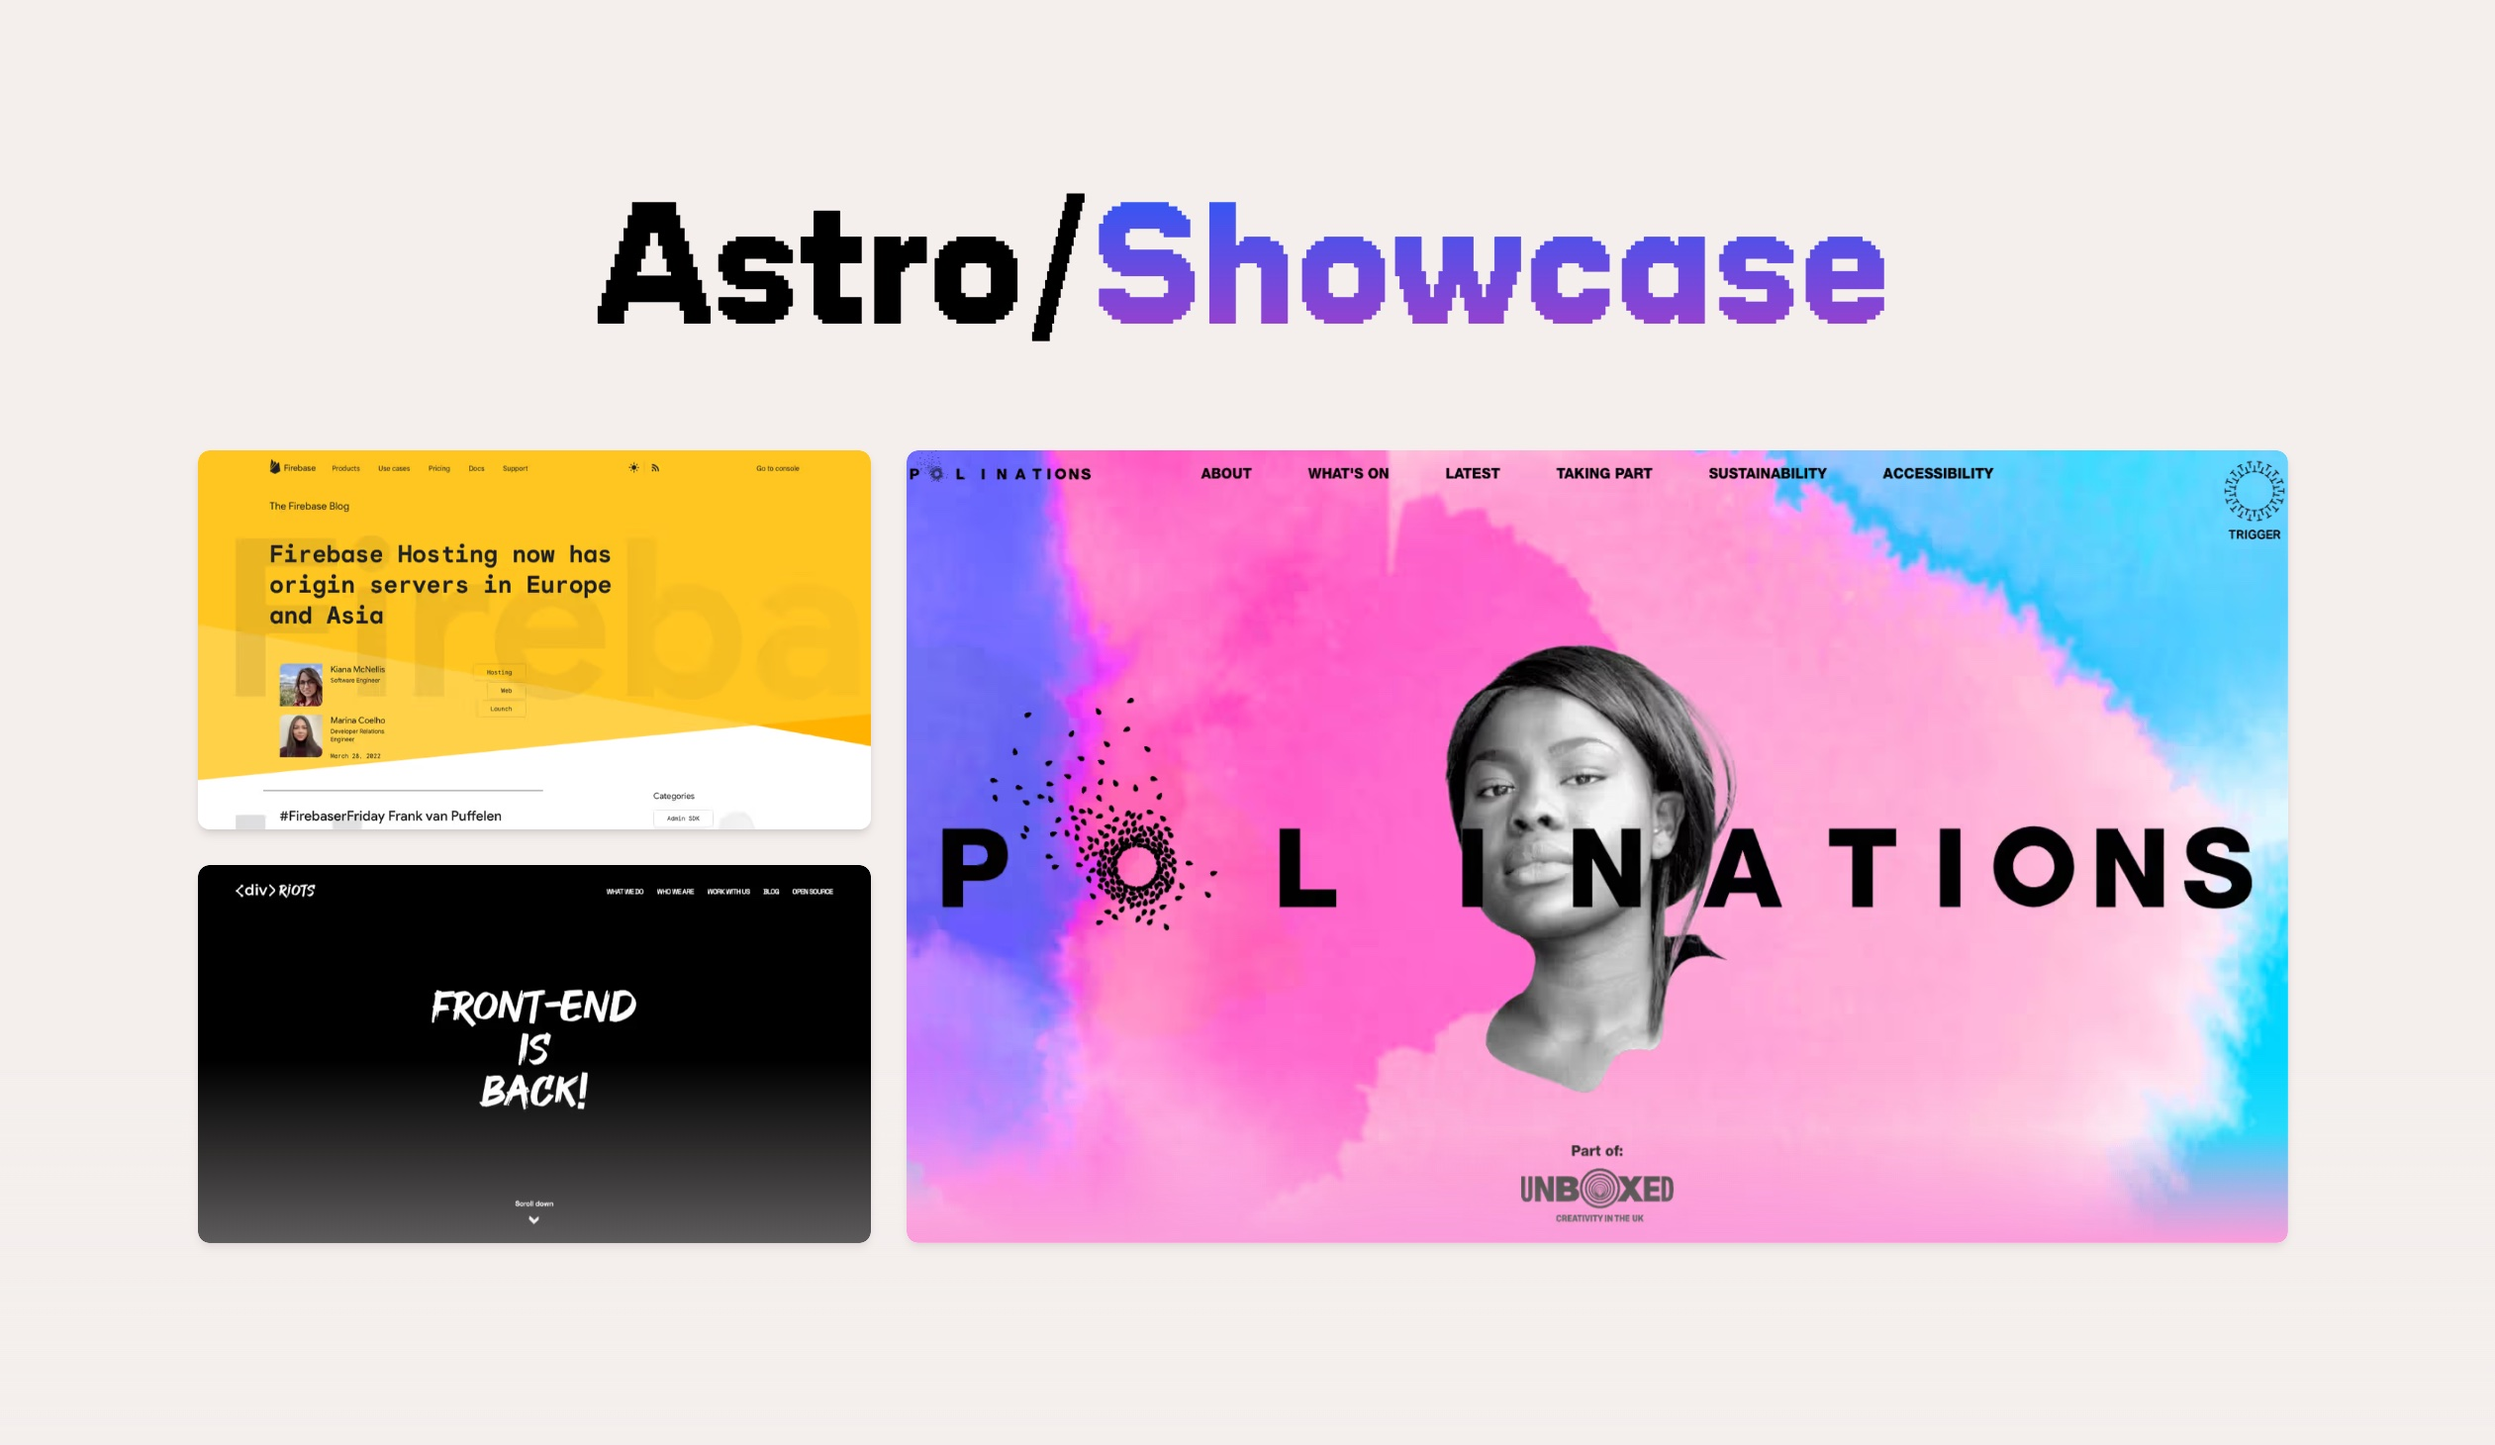
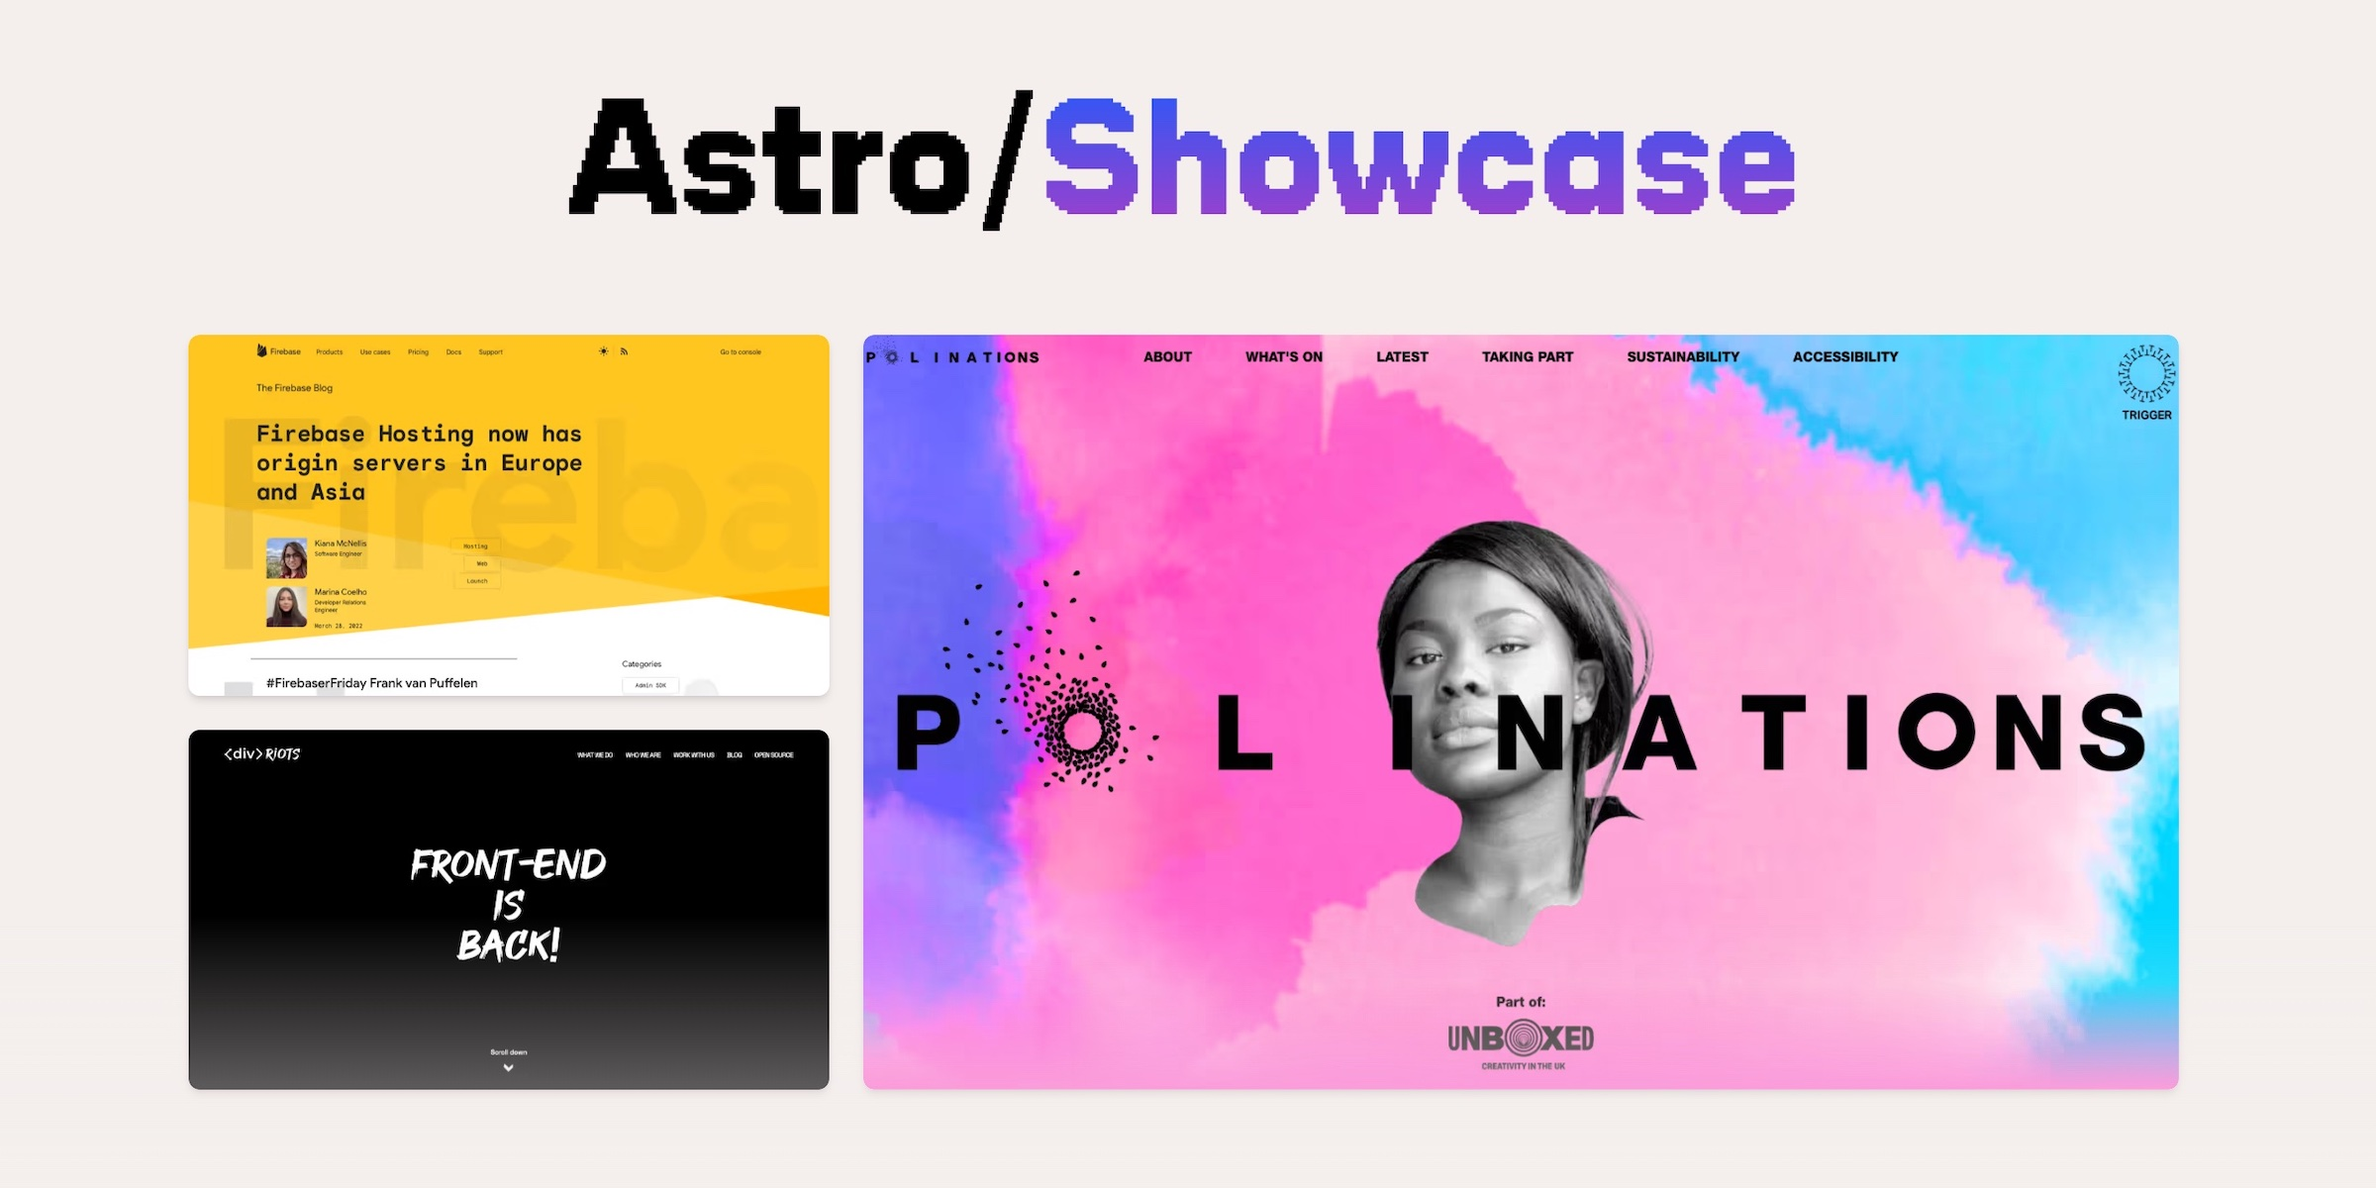
resize social

diff --git a/src/pages/blog/astro-showcase.md b/src/pages/blog/astro-showcase.md
@@ -8,7 +8,7 @@ authors:
   - tony
 description: 'Explore beautiful community websites built with Astro.'
 publishDate: 'April 8, 2022'
-socialImage: '/assets/showcase/social.jpg?v=2'
+socialImage: '/assets/showcase/social.jpg?v=3'
 permalink: 'https://astro.build/blog/astro-showcase'
 lang: 'en'
 ---
